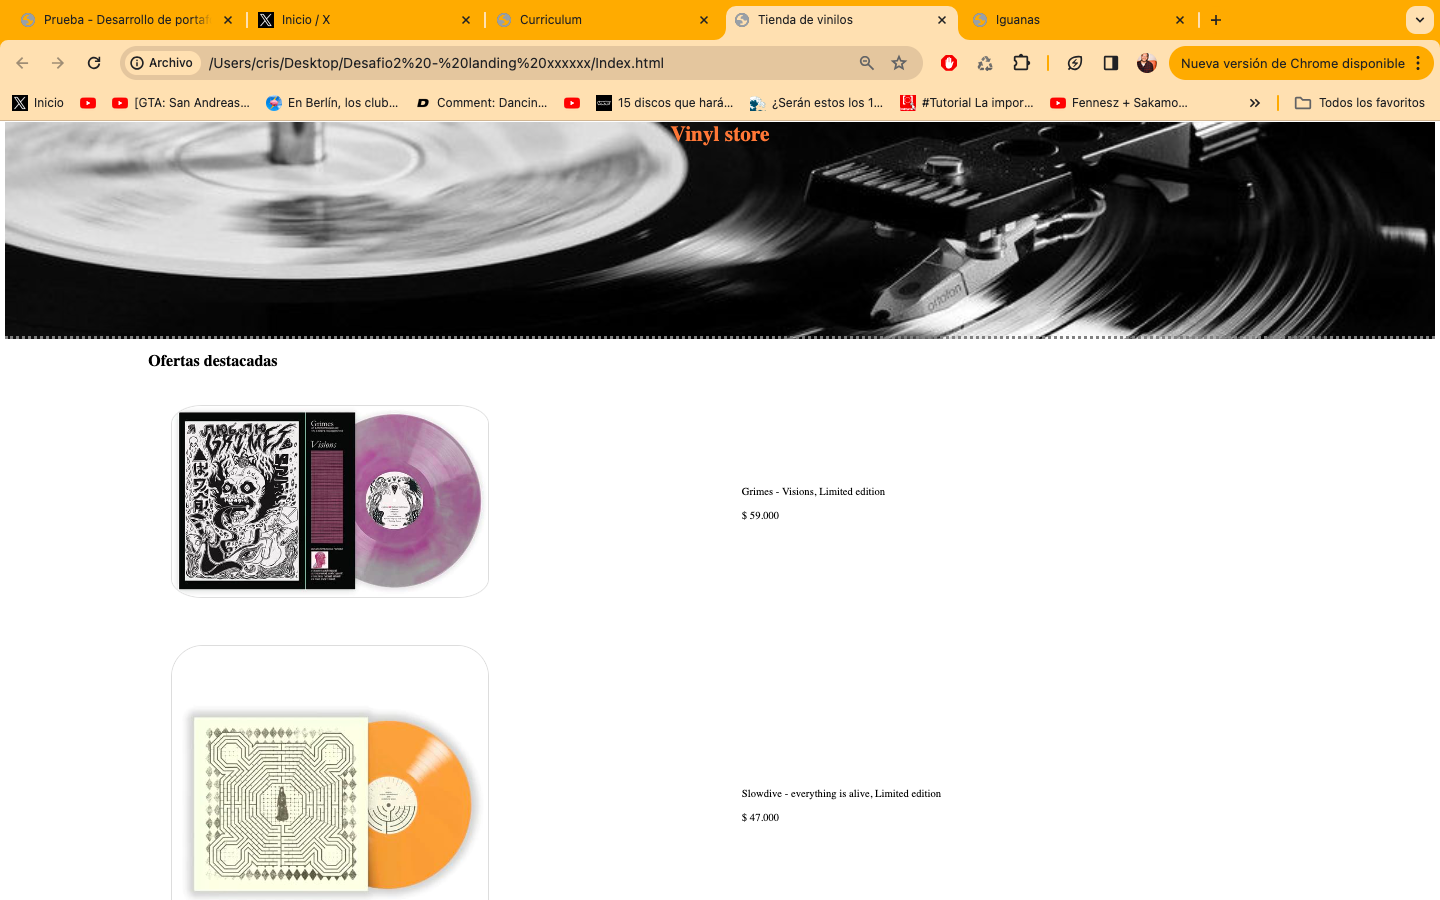
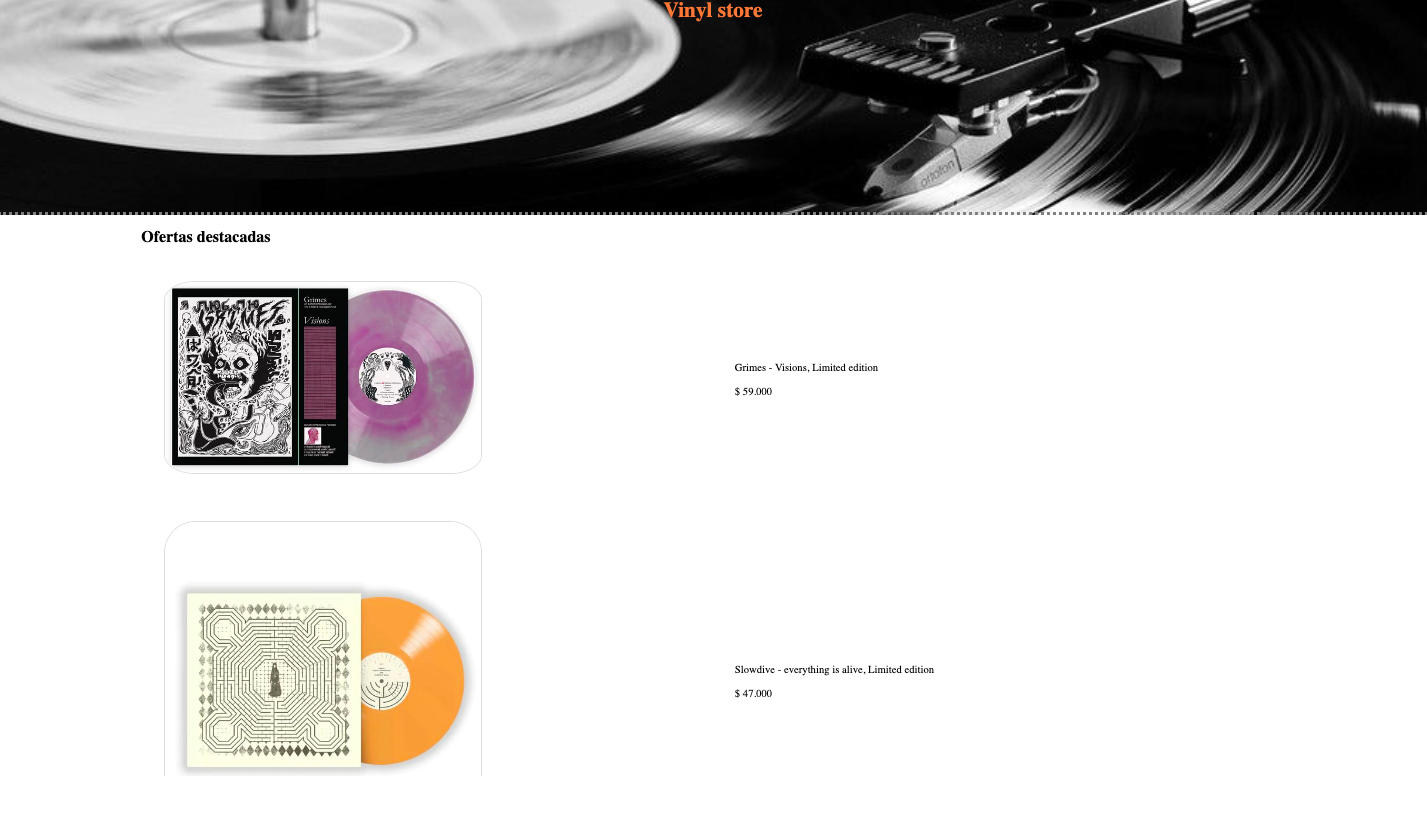
cambios de fotos y navbar

diff --git a/assets/css/styles.css b/assets/css/styles.css
@@ -22,8 +22,7 @@ h1 {
 }
 
 .left {
-    background-color: rgb(211, 199, 199);
-    border-right: 1px solid rgb(211, 199, 199);
+    background-color: rgb(231, 214, 157);
     float: right;
     height: 100%;
     min-width: 256px;
@@ -32,7 +31,7 @@ h1 {
 
 }
 .right {
-    background-color: rgb(224, 222, 222);
+    background-color: rgb(255, 255, 255);
     float: right;
     height: 100%;
     position: relative;
@@ -139,7 +138,7 @@ h1 {
 { font-size:14px;}
 }
 .clearfix:after {
-    content: " "; /* Older browser do not support empty content */
+    content: " ";
     visibility: hidden;
     display: block;
     height: 0;

diff --git a/index.html b/index.html
@@ -23,10 +23,6 @@
           <ul class="navbar-nav mx-auto mb-2 mb-lg-0">
 
             <li class="nav-item">
-              <a class="nav-link active" aria-current="page" href="#experiencia">Inicio</a>
-            </li>
-
-            <li class="nav-item">
               <a class="nav-link" href="#experiencia">Experiencia</a>
             </li>
 
